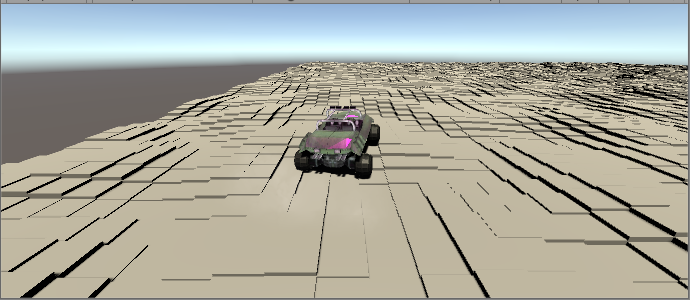
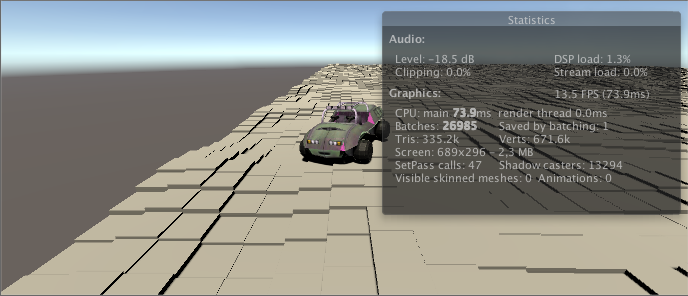
README

diff --git a/README.md b/README.md
@@ -23,7 +23,13 @@ CarMono.unity
 
 ![](doc/car-mono.png)
 
+Press **SPACE** to spawn the car
 
+CarECS.unity
+
+![](doc/car-ecs.png)
+
+ECS, until now doesn't handle physics. So, the car will pass through the floor.
 
 # Ref
 
